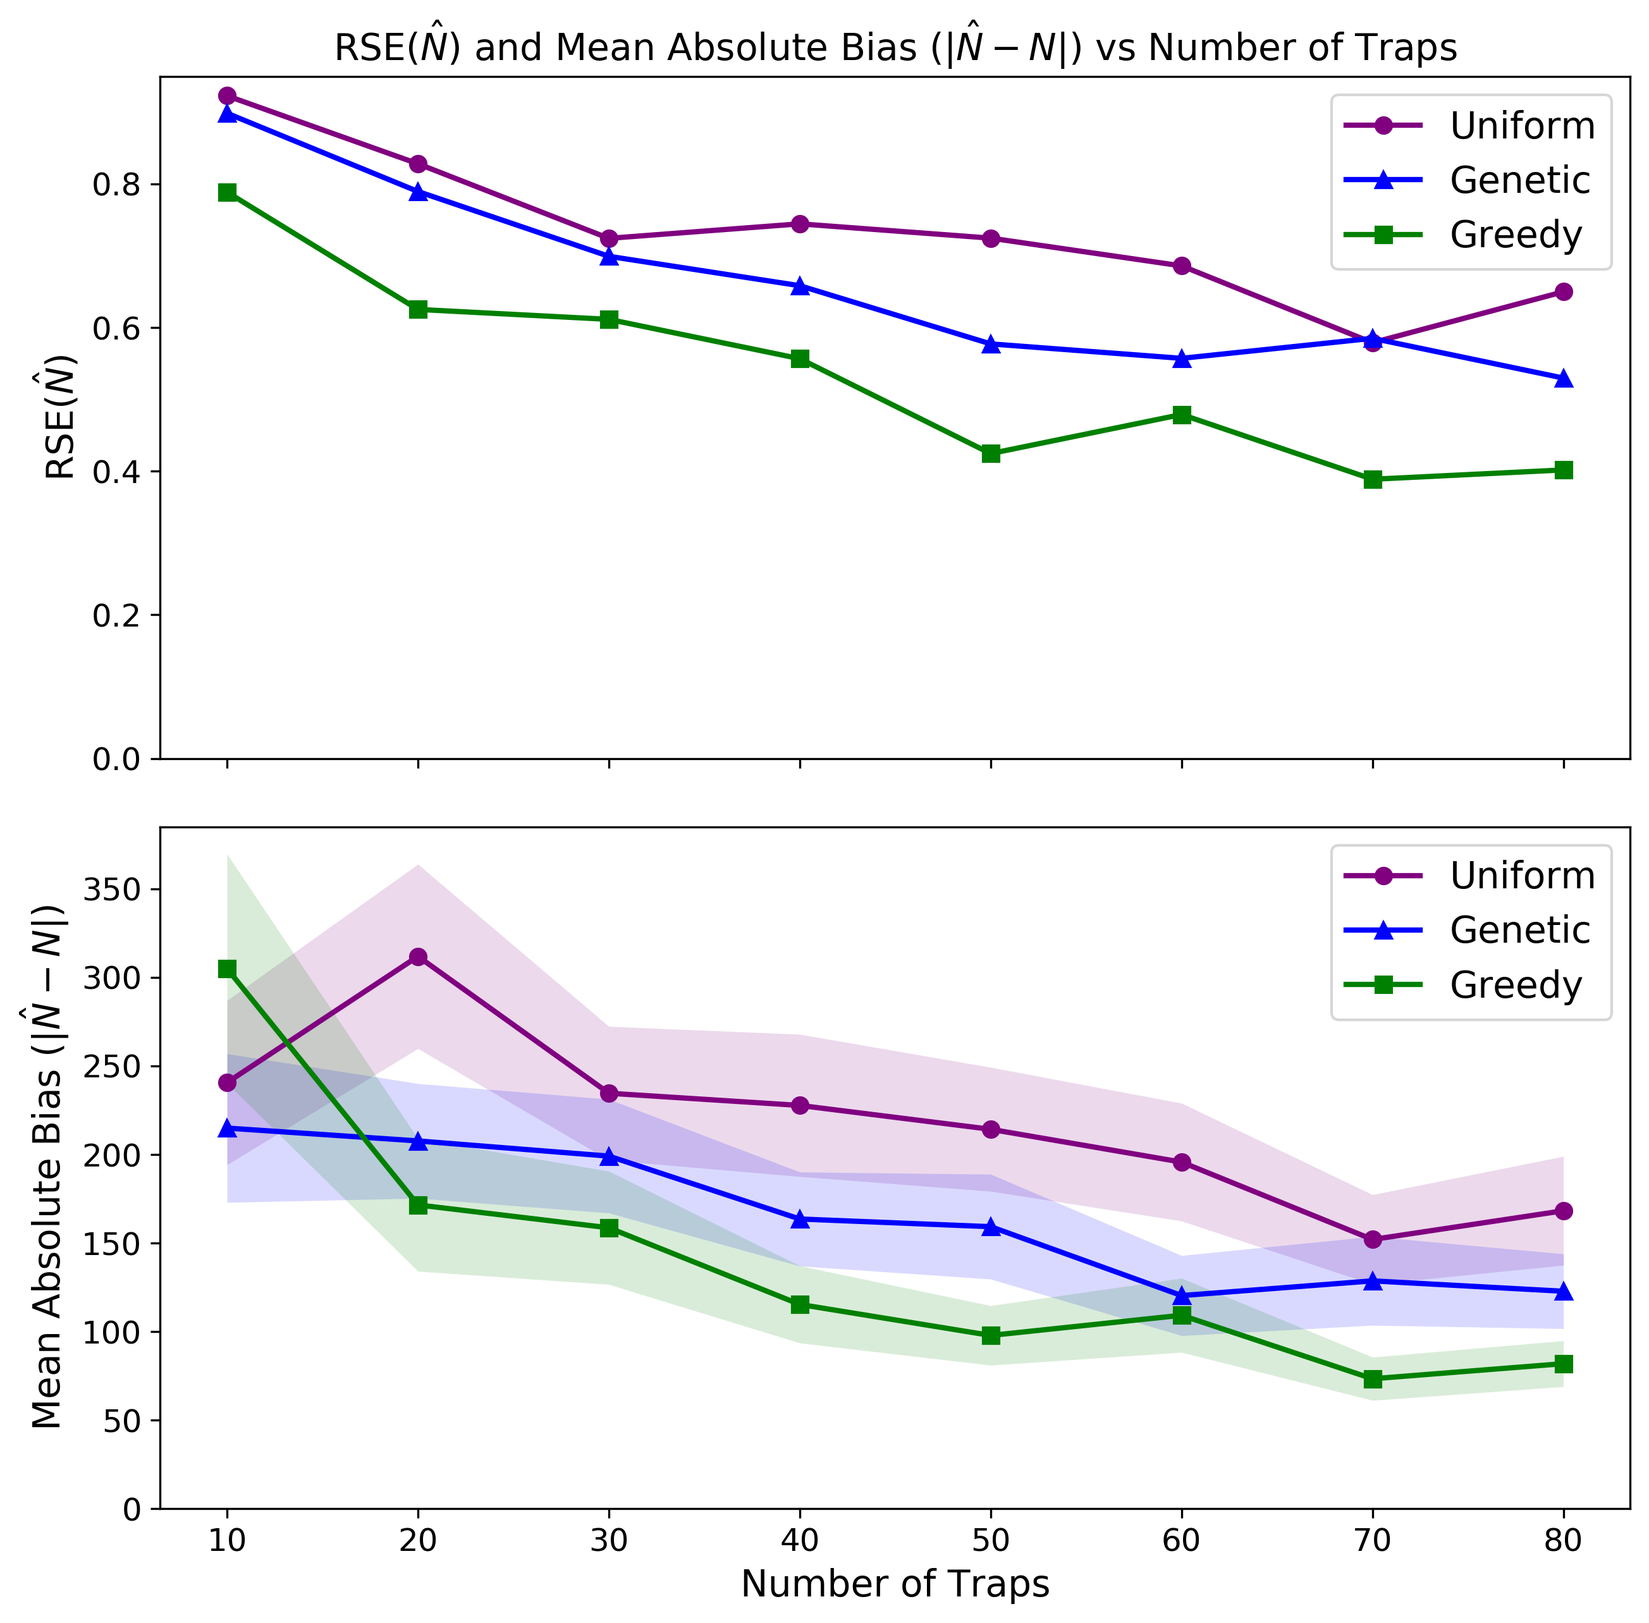
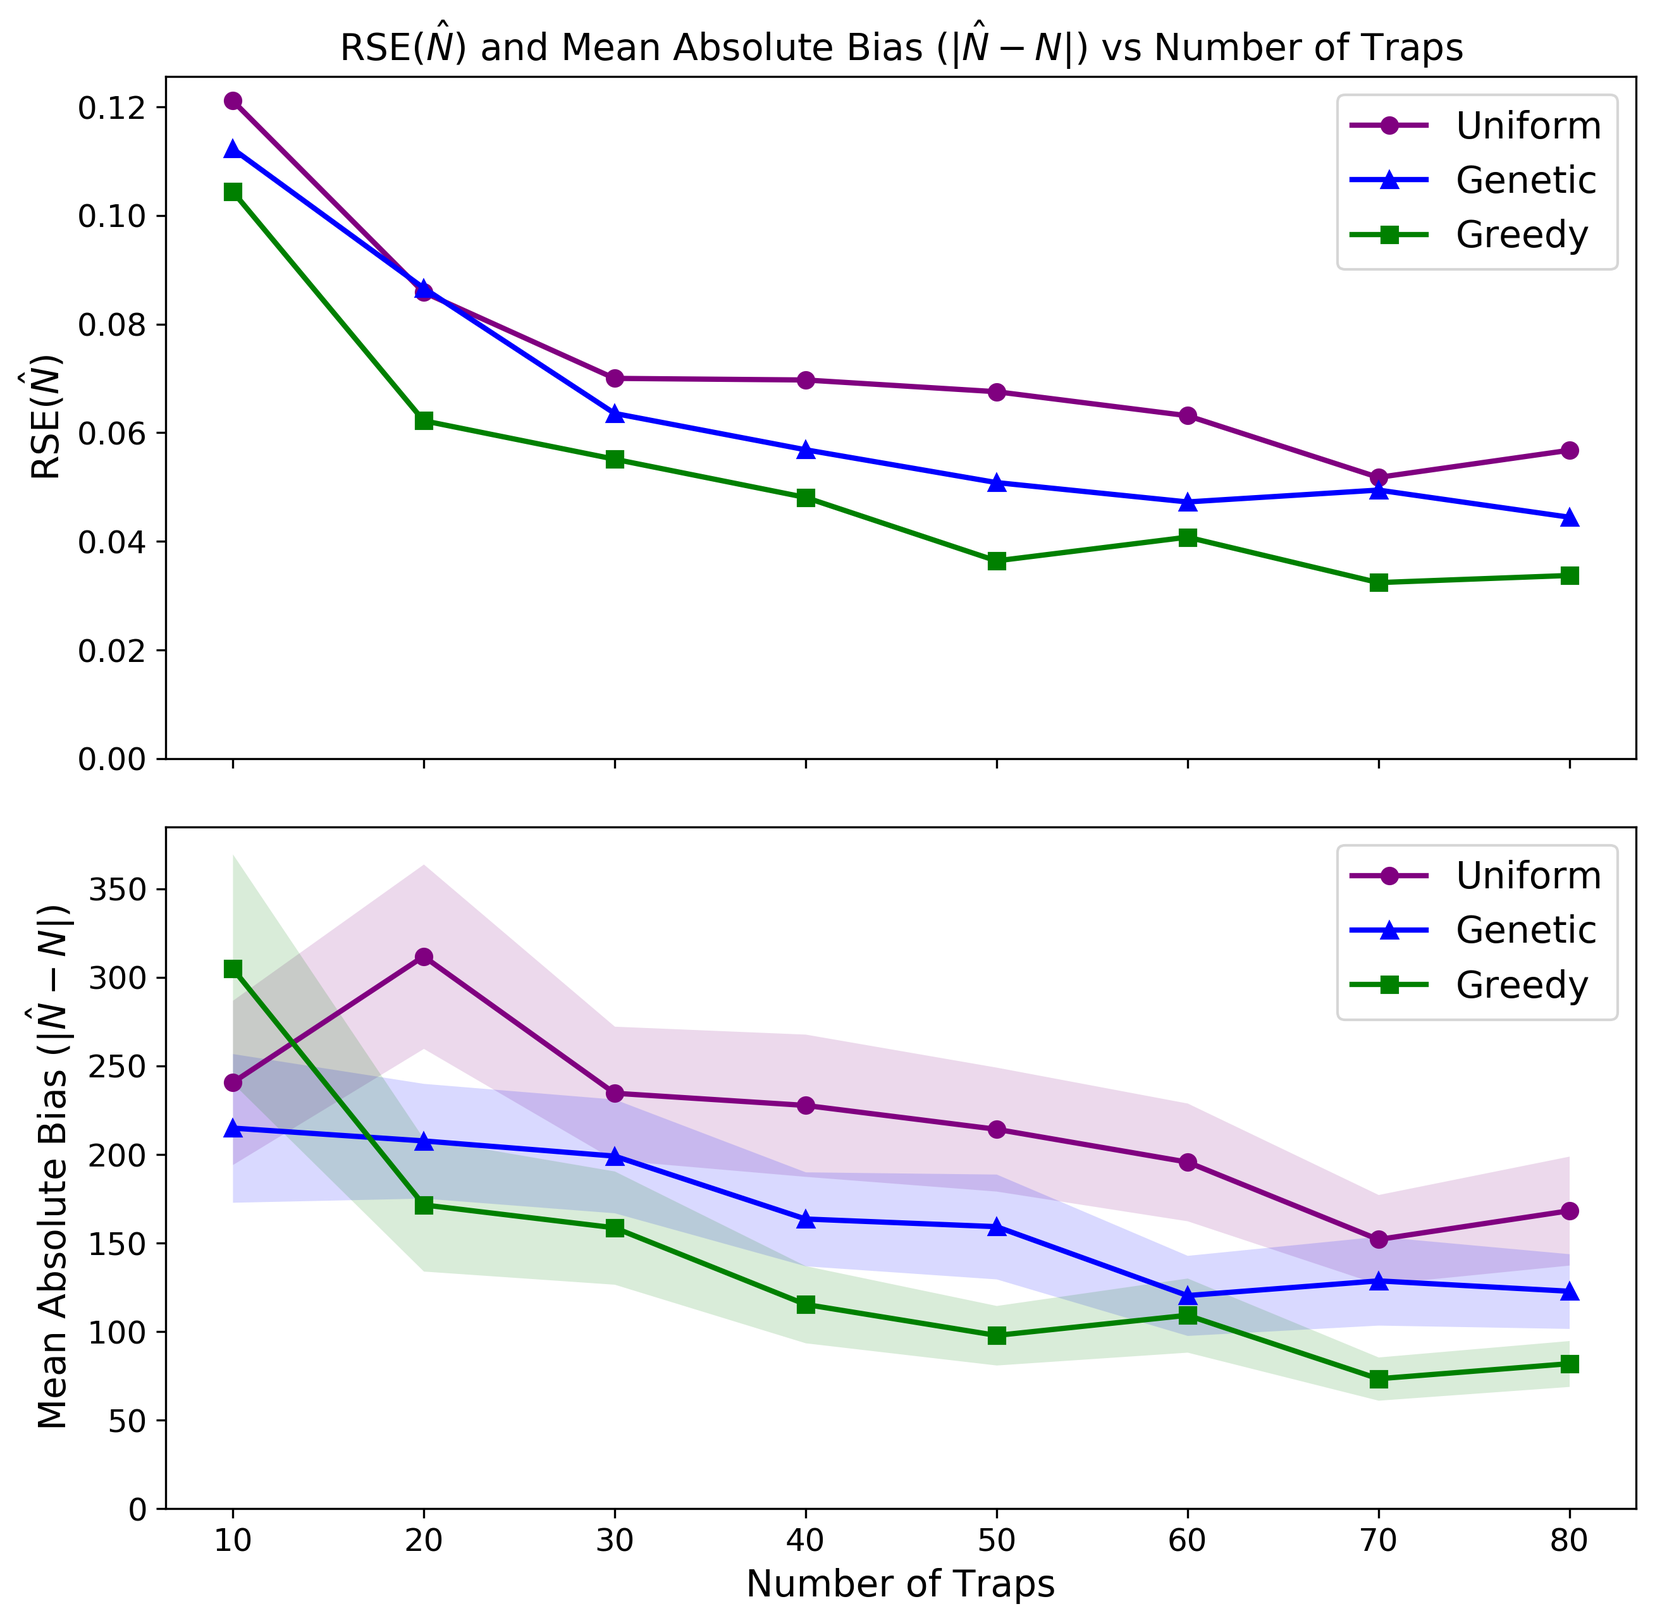
figs

diff --git a/scrpy/pgaff-testing/forward_greedy.py b/scrpy/pgaff-testing/forward_greedy.py
@@ -20,31 +20,37 @@ warnings.filterwarnings("ignore")
 import logging
 logging.getLogger("distributed").setLevel(logging.ERROR)
 
+"""
+Hi Arielle and Sean! Here is my code for the greedy algorithm. There are some items that are hardcoded (like the file paths and the parameter draws evaluated over). 
+This code will have to be updated so we can randomly select training paremeter sets for each of our repetitions based on the simulations generated from the ranges our users input.
+There are many file outputs and print statements that are probably not relavent to the webapp as well, and I have labeled those as such.
+"""
+
 #################################################################################################################################
 ############                                        UTILITY FUNCTIONS                                                ############
 #################################################################################################################################
 
 def compute_expected_n(ac_locs, trap_locs, g0, sigma, K, density, distances, trap_x):
     """
-    Computes expected number of unique individuals detected in a spatial capture-recapture study.
+    Computes expected number of unique individuals detected in a spatial capture-recapture study BASED ON THE FAST HEURISTIC from Efford/Boulanger.
         ac_locs (2D array): Shape (num_activity_centers, 2) - x and y coordinates of activity centers.
         trap_locs (2D array): Shape (num_traps, 2) - x and y coordinates of all potential trap locations.
         g0 (float): Detection probability at the activity center.
         sigma (float): Scale parameter of the detection function.
         K (int): Number of sampling periods.
-        density (float): Density of individuals per unit area.
+        density (float): Density of animals
         prob_cap (2D array): Shape (num_traps, num_activity_centers) - capture probability at each trap j of individuals with activity center l.
         trap_x (1D array): 1D array of activated trap locations.
     """
     alpha1 = (1/(2*sigma*sigma))
-    prob_cap = ((g0)*np.exp(-alpha1*(distances**2)))      # Array of size (# traps, # poential activity centers)
-    for t in range(len(trap_locs)): # for trap locations that are not selected, set all capture probs to 0
+    prob_cap = ((g0)*np.exp(-alpha1*(distances**2)))        # Array of size (# traps, # poential activity centers)
+    for t in range(len(trap_locs)):                         # for trap locations that are not selected, set all capture probs to 0
         if int(trap_x[t]) == 0:
             prob_cap[t,...] = np.zeros(ac_locs.shape[0])
     i_cap_hist = np.squeeze(np.zeros((len(trap_locs), 1)))  # Initialize empty capture history 
-    p_empty_cap_hist = compute_cond_lik_ind(len(ac_locs), prob_cap, K, len(trap_locs), i_cap_hist)
-    p_nonempty = 1 - p_empty_cap_hist
-    expected_n = np.sum(p_nonempty*density)
+    p_empty_cap_hist = compute_cond_lik_ind(len(ac_locs), prob_cap, K, len(trap_locs), i_cap_hist)  # compute probability of never being captured (call below function)
+    p_nonempty = 1 - p_empty_cap_hist               # probabily of being captured at least once
+    expected_n = np.sum(p_nonempty*density)         # En equation based on Efford/Boulanger heuristic
     return expected_n
 
 def compute_cond_lik_ind(num_activity_centers, est_prob_cap, K, num_traps, ind_cap_hist):
@@ -65,6 +71,9 @@ def compute_cond_lik_ind(num_activity_centers, est_prob_cap, K, num_traps, ind_c
     return np.exp(log_cond_lik_sums)
 
 def compute_expected_n_across_scenarios(ac_locs, trap_locs, g0, sigma, K, density, distances, trap_x):
+    """
+    Computes expected number of unique individuals detected across multiple scenarios based on the fast heuristic from Efford/Boulanger.
+    """
     nscenarios = len(g0)
     e_n = np.zeros((nscenarios,1))
     for s in range(nscenarios):
@@ -72,17 +81,31 @@ def compute_expected_n_across_scenarios(ac_locs, trap_locs, g0, sigma, K, densit
     return(e_n)
 
 def compute_expected_c(ac_locs, trap_locs, g0, sigma, K, density, distances, trap_x):
-    alpha1 = (1/(2*sigma*sigma))
-    prob_cap = ((g0)*np.exp(-alpha1*(distances**2)))
-    density_array = np.array(density).flatten()
-    for t in range(len(trap_locs)):
+    """
+    Computes expected number of captures in a spatial capture-recapture study BASED ON THE FAST HEURISTIC from Efford/Boulanger.
+        ac_locs (2D array): Shape (num_activity_centers, 2)
+        trap_locs (2D array): Shape (num_traps, 2)
+        g0 (float): Detection probability at the activity center.
+        sigma (float): Scale parameter of the detection function.
+        K (int): Number of sampling periods.
+        density (float): Density of animals
+        prob_cap (2D array): Shape (num_traps, num_activity_centers)
+        trap_x (1D array): 1D array of activated trap locations.
+    """
+    alpha1 = (1/(2*sigma*sigma))                        # convert sigma to alpha1
+    prob_cap = ((g0)*np.exp(-alpha1*(distances**2)))    # calculate probabilty of capture
+    density_array = np.array(density).flatten()         # make density a 1D array
+    for t in range(len(trap_locs)):                     # for trap locations that are not selected, set all capture probs to 0
         if int(trap_x[t]) == 0:
             prob_cap[t,...] = np.zeros(ac_locs.shape[0])
-    broadcast_density = np.broadcast_to(density_array, (len(trap_locs), len(density_array)))
-    expected_c = np.sum(prob_cap*broadcast_density)*K
+    broadcast_density = np.broadcast_to(density_array, (len(trap_locs), len(density_array)))     # broadcast density to match prob_cap shape
+    expected_c = np.sum(prob_cap*broadcast_density)*K   # expected captures equation based on Efford/Boulanger heuristic
     return expected_c
 
 def compute_expected_c_across_scenarios(ac_locs, trap_locs, g0, sigma, K, density, distances, trap_x):
+    """
+    Computes expected number of captures across multiple scenarios based on the fast heuristic from Efford/Boulanger.
+    """
     nscenarios = len(g0)
     e_c = np.zeros((nscenarios,1))
     for s in range(nscenarios):
@@ -109,69 +132,67 @@ def forward_greedy(scenarios, trap_loc, centers, K, distances, draw, draw_to_tru
 
         density_prior_file = f'full_grid_1km/10-3 data (Marten)/Constant_detection/D_mod/Dmod_draw_{scenarios[s][3]}.csv'
         density_df = pd.read_csv(density_prior_file)
-        density_df['D_mod'] = density_df['D_mod'] * 25
+        density_df['D_mod'] = density_df['D_mod'] * 25      # scale up
         density_prior.append(density_df['D_mod'].values.tolist())
 
-    RSE_hist = []
-    add_hist = []
-    activated_trap_hist = []
-    rse_tracker = {}
-    n_tracker = {}
+    RSE_hist = []       # Track RSE history at each trap addition
+    add_hist = []       # Track which traps were added at each step
+    activated_trap_hist = []    # Track which traps are active at each step
+    rse_tracker = {}    # Track RSE estimates at each step
+    n_tracker = {}      # Track N estimates at each step
 
     counter = 0
     pbar = tqdm(total=max_traps, desc="Forward Greedy Progress")
-    while sum(trap_x) < max_traps:
+    while sum(trap_x) < max_traps:      # max_traps is your budget
         pbar.update(1)
         counter += 1
 
-        trap_indices = [i for i, x in enumerate(trap_x) if int(x) == 0]  # inactive traps
-        activated_trap_hist.append([i for i, x in enumerate(trap_x) if int(x) == 1])
+        trap_indices = [i for i, x in enumerate(trap_x) if int(x) == 0]                 # inactive traps
+        activated_trap_hist.append([i for i, x in enumerate(trap_x) if int(x) == 1])    # active traps
 
-        trap_x_temp = np.copy(np.broadcast_to(trap_x, (len(trap_indices), trap_x.shape[0])))
+        trap_x_temp = np.copy(np.broadcast_to(trap_x, (len(trap_indices), trap_x.shape[0])))    # temp array to try adding each inactive trap
         for pos in range(len(trap_indices)):
             trap_idx = trap_indices[pos]
             trap_x_temp[pos, trap_idx] = 1  # try adding this trap
 
-        func1 = partial(compute_expected_n_across_scenarios, centers, trap_loc, g0, sigma, K, density_prior, distances)
-        func2 = partial(compute_expected_c_across_scenarios, centers, trap_loc, g0, sigma, K, density_prior, distances)
-        pool = mp.Pool(min(mp.cpu_count(), 10))
-        E_n_per_scenario = np.squeeze(np.array(pool.map(func1, trap_x_temp)))
+        func1 = partial(compute_expected_n_across_scenarios, centers, trap_loc, g0, sigma, K, density_prior, distances)     # parallelize expected N computation
+        func2 = partial(compute_expected_c_across_scenarios, centers, trap_loc, g0, sigma, K, density_prior, distances)     # parallelize expected C computation
+        pool = mp.Pool(min(mp.cpu_count(), 10))         # I limited to 10 cores since my machine was getting overworked, but this could be adjusted.
+        E_n_per_scenario = np.squeeze(np.array(pool.map(func1, trap_x_temp)))   
         E_c_per_scenario = np.squeeze(np.array(pool.map(func2, trap_x_temp)))
         pool.close()
         pool.join()
 
-        E_r_per_scenario = E_c_per_scenario
-        min_n_r_per_scenario = np.zeros(E_r_per_scenario.shape)
-        RSE_per_scenario = np.zeros(E_r_per_scenario.shape)
+        E_r_per_scenario = E_c_per_scenario     # Compute E_r based on E_c
+        min_n_r_per_scenario = np.zeros(E_r_per_scenario.shape)     # Initialize min(N,R) array
+        RSE_per_scenario = np.zeros(E_r_per_scenario.shape)         # Initialize RSE array
 
-        for t in range(len(trap_indices)):
+        for t in range(len(trap_indices)):  
             for s in range(len(scenarios)):
-                E_r_per_scenario[t, s] -= E_n_per_scenario[t, s]
-                # print if E_r or E_n is smaller for each scenario
-                if E_r_per_scenario[t, s] < E_n_per_scenario[t, s]:
-                    print(f"Scenario {s} (Draw {scenarios[s][3]}): E_r < E_n ({E_r_per_scenario[t, s]:.2f} < {E_n_per_scenario[t, s]:.2f}) when adding trap {trap_indices[t]}")
-                else:
-                    print(f"Scenario {s} (Draw {scenarios[s][3]}): E_n <= E_r ({E_n_per_scenario[t, s]:.2f} <= {E_r_per_scenario[t, s]:.2f}) when adding trap {trap_indices[t]}")
-                min_n_r_per_scenario[t, s] = min(E_n_per_scenario[t, s], E_r_per_scenario[t, s])
+                E_r_per_scenario[t, s] -= E_n_per_scenario[t, s]    # E_r = E_c - E_n, We set E_r to equal E_c above for ease of computation.
+                # if E_r_per_scenario[t, s] < E_n_per_scenario[t, s]:
+                #     print(f"Scenario {s} (Draw {scenarios[s][3]}): E_r < E_n ({E_r_per_scenario[t, s]:.2f} < {E_n_per_scenario[t, s]:.2f}) when adding trap {trap_indices[t]}")
+                # else:
+                #     print(f"Scenario {s} (Draw {scenarios[s][3]}): E_n <= E_r ({E_n_per_scenario[t, s]:.2f} <= {E_r_per_scenario[t, s]:.2f}) when adding trap {trap_indices[t]}")
+                min_n_r_per_scenario[t, s] = min(E_n_per_scenario[t, s], E_r_per_scenario[t, s]) 
                 RSE_per_scenario[t, s] = 1 / np.sqrt(min_n_r_per_scenario[t, s])
 
-        RSE_temp = np.mean(RSE_per_scenario, axis=1).tolist()
+        RSE_temp = np.mean(RSE_per_scenario, axis=1).tolist()   # Mean RSE across scenarios for each candidate trap addition
         variances = np.var(RSE_per_scenario, axis=1)
         average_variance = variances.mean()
         # print(f"Iteration {counter} RSE candidates: {RSE_temp}")
-        print(f"Iteration {counter} average variance: {average_variance}")
+        # print(f"Iteration {counter} average variance: {average_variance}")
 
         rse_tracker[counter] = {
             cam_id: RSE_temp[i]
             for i, cam_id in enumerate(trap_indices)
         }
 
-        # pick the trap whose *addition* gives minimum mean RSE
-        min_change_idx = RSE_temp.index(min(RSE_temp))
+        min_change_idx = RSE_temp.index(min(RSE_temp))      # pick the trap to add to the layout that has the lowest RSE
         add = trap_indices[min_change_idx]
         trap_x[add] = 1
 
-        # Track N estimates
+        # Track N estimates)
         n_tracker[counter] = {}
         for i, param_draw in enumerate(draw):
             true_N = draw_to_trueN[param_draw]
@@ -199,41 +220,44 @@ draw_to_trueN = dict(zip(true_n['Parameter_draw'], true_n['N']))
 # Read in parameter draws
 params = pd.read_csv('./full_grid_1km/10-3 data (Marten)/param_values_for_each_draw300_marten.csv')
 params = params.rename(columns={'Unnamed: 0': 'index'})
-# Filter for these 10 params
-params = params[params['index'].isin([34, 68, 80, 93, 105, 155, 197, 219, 282, 298])]
+
+# Set IDs of parameters to evaluate over
+params = params[params['index'].isin([34, 68, 80, 93, 105, 155, 197, 219, 282, 298])]       ### I hardcoded this, not sure how we want to do this for the webapp?
 
 D = params['D'].values
 g0 = params['g0'].values
 sigma = params['sigma'].values
 K = 5
 draw = params['index'].values.tolist()
-print(f"Parameter draws evaluated over: {draw}")
+print(f"Parameter draws evaluated over: {draw}")        # sanity check print statement
 
-ac_coords = pyreadr.read_r('./full_grid_1km/10-3 data (Marten)/500m_mask_marten.RDS')
+ac_coords = pyreadr.read_r('./full_grid_1km/10-3 data (Marten)/500m_mask_marten.RDS')       # read in potential AC locations
 ac_coords = ac_coords[None]
 ac_coords_list = ac_coords[['x', 'y']].values.tolist()
 ac_coords_list = np.array(ac_coords_list)
 
 trap_coords = pd.read_csv('./full_grid_1km/10-3 data (Marten)/1000m_trap_grid_marten.csv')
 trap_coords = trap_coords.drop(columns = ['Unnamed: 0'])
-# exclude_trap_coords = pd.read_csv('./500m_data/traps_to_remove_50m.csv')
-exclude_trap_coords = pd.read_csv('./full_grid_1km/traps_to_remove_1km.csv')
-trap_coords = trap_coords[~trap_coords['Trap_index'].isin(exclude_trap_coords['Trap_index'])]
-trap_coords_list = []
+
+# Remove trap locations which will never have a deployment -- Not sure if this will be functionality supported in webapp? Right now, not using it so commenting out.
+# exclude_trap_coords = pd.read_csv('./full_grid_1km/traps_to_remove_1km.csv')
+# trap_coords = trap_coords[~trap_coords['Trap_index'].isin(exclude_trap_coords['Trap_index'])]
+
+trap_coords_list = []       # Create list of candidate trap locations
 for i in range(trap_coords.shape[0]):
     trap_coords_list.append((trap_coords['x'].iloc[i], trap_coords['y'].iloc[i]))
 trap_coords_list = np.array(trap_coords_list)
-print(f"{trap_coords_list.shape} candidate trap locations")
-trap_coords_list_df = pd.DataFrame(trap_coords_list, columns=['x', 'y'])
+print(f"{trap_coords_list.shape} candidate trap locations")     # sanity check on number of candidate trap locations
+trap_coords_list_df = pd.DataFrame(trap_coords_list, columns=['x', 'y'])    # convert to dataframe
 
 traps = trap_coords_list[:, np.newaxis, :]  # Add a new axis to traps to make it 3D
 centers = ac_coords_list[np.newaxis, :, :]  # Add a new axis to centers to make it 3D
 differences = traps - centers
-distances = np.linalg.norm(differences, axis=2)
+distances = np.linalg.norm(differences, axis=2)  # compute the EUCLIDEAN distances between all traps and all activity centers
 
 scenarios = list(zip(*[D, g0, sigma, draw]))
 
-start_date = datetime.now()
+start_date = datetime.now()     # track runtimes (maybe not needed for the webapp)
 start_time = time.time()
 
 ################################################################################################################################
@@ -251,7 +275,7 @@ selected_traps, RSE_hist, trap_x = forward_greedy(scenarios, trap_coords_list, a
 end_date = datetime.now()
 end_time = time.time()
 
-# export the total runtime to a text file
+# export the total runtime to a text file - Can skip for webapp.
 with open('secr/Sample Average Approximation/SA2/SA2-20/runtime.txt', 'w') as f:
     # write the start time and date
     f.write(f"Start time: {start_date.strftime('%Y-%m-%d %H:%M:%S')}\n")
@@ -263,27 +287,29 @@ with open('secr/Sample Average Approximation/SA2/SA2-20/runtime.txt', 'w') as f:
 print(f"Total runtime: {end_time - start_time} seconds")
 
 # Save the results from greedy algorithms
-np.save('./secr/Sample Average Approximation/SA2/SA2-20/all_selected_traps.npy', selected_traps)
+np.save('./secr/Sample Average Approximation/SA2/SA2-20/all_selected_traps.npy', selected_traps)        ### THIS IS THE IMPORTANT FILE OUTPUT TO VISUALIE THE SELECTED TRAPS.
 # Save the expected number of detections history as a txt file
 # with open('./secr/Greedy Removal/FGR2/en_hist.txt', 'w') as f:
 #     for en in en_hist:
 #         f.write(f"{en}\n")
 # same RSE history as txt file
+
+# All other files are probably not needing to be exported on webapp? Consider commenting out below. This was for my own tracking.
 with open('./secr/Sample Average Approximation/SA2/SA2-20/rse_hist.txt', 'w') as f:
     for rse in RSE_hist:
         f.write(f"{rse}\n")
-# Save the trap_x configuration
 with open('./secr/Sample Average Approximation/SA2/SA2-20/considered_trap_locs.pkl', 'wb') as f:
     pickle.dump(trap_x, f)
-# Print the selected traps
 print("Selected traps:", selected_traps)
-# Print the expected number of detections history
-# print("Expected number of detections history:", en_hist)
 
 
 ###############################################################################################################################
 ###########                                      GENERATE FILES FOR SECR                                            ############
 ################################################################################################################################
+"""
+This section is probably not needed as we aren't using SECR in the webapp loop anywhere. 
+Can probably disregard this as its just setting up file formatting to work with Arielle's SECR code.
+"""
 
 trap_coords_list_df = pd.DataFrame(trap_coords_list, columns=['x', 'y'])
 trap_coords_list_df.to_csv(f'./secr/Sample Average Approximation/SA2/SA2-20/considered_trap_locs.csv', index=False)
